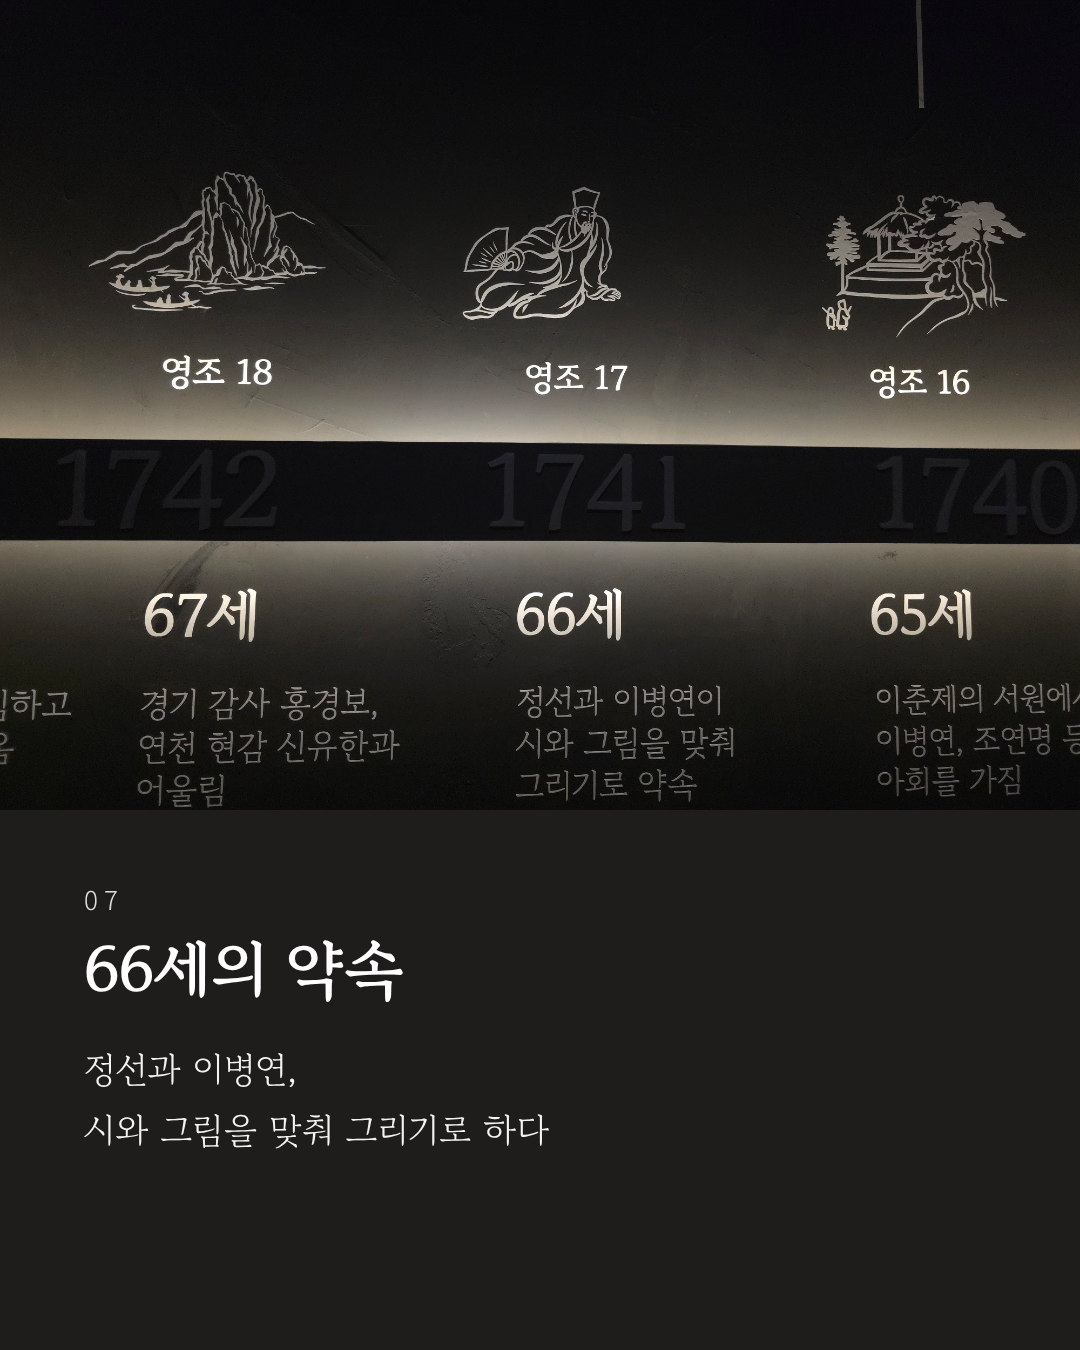
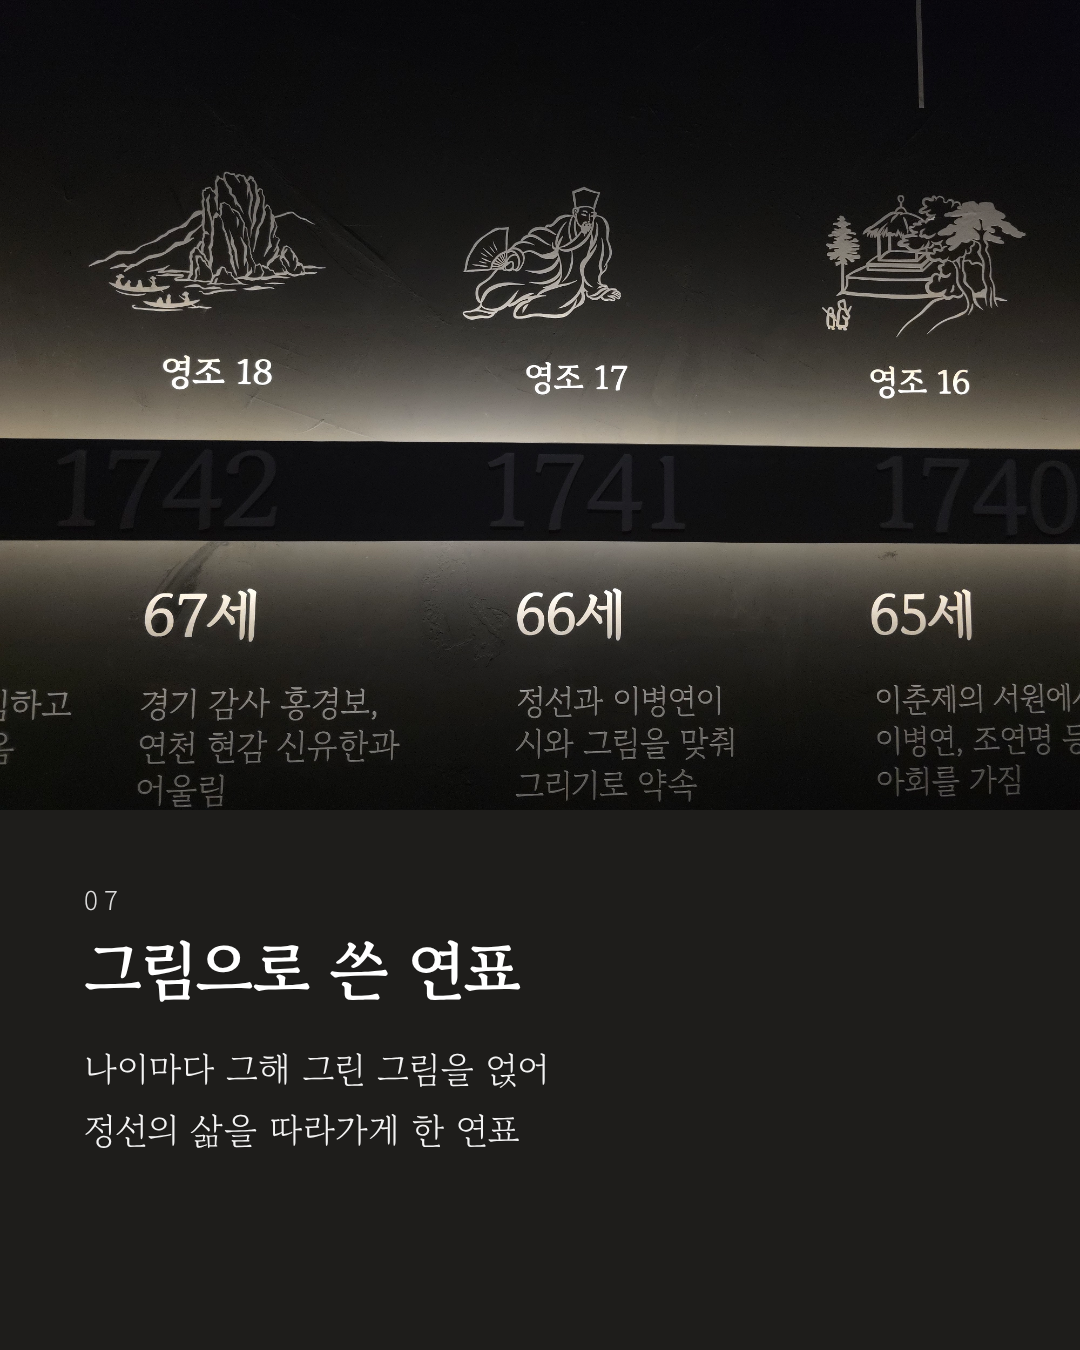
Gansong card 8: timeline concept
Claude-Session: https://claude.ai/code/session_01DMuKcpM29d5FHQdT8b35KP

Changed region(s): [[0.0611, 0.7778, 0.5194, 0.8711], [0.0611, 0.6844, 0.4889, 0.7467]]

diff --git a/gansong/cards.html b/gansong/cards.html
@@ -88,8 +88,8 @@ p{font-size:36px;line-height:1.7;margin-top:28px;opacity:.95}
   <div class="top" style="background-image:url(timeline.jpg)"></div>
   <div class="txt" style="top:880px">
     <div class="num">07</div>
-    <h2>66세의 약속</h2>
-    <p>정선과 이병연,<br>시와 그림을 맞춰 그리기로 하다</p>
+    <h2>그림으로 쓴 연표</h2>
+    <p>나이마다 그해 그린 그림을 얹어<br>정선의 삶을 따라가게 한 연표</p>
   </div>
 </div>
 
